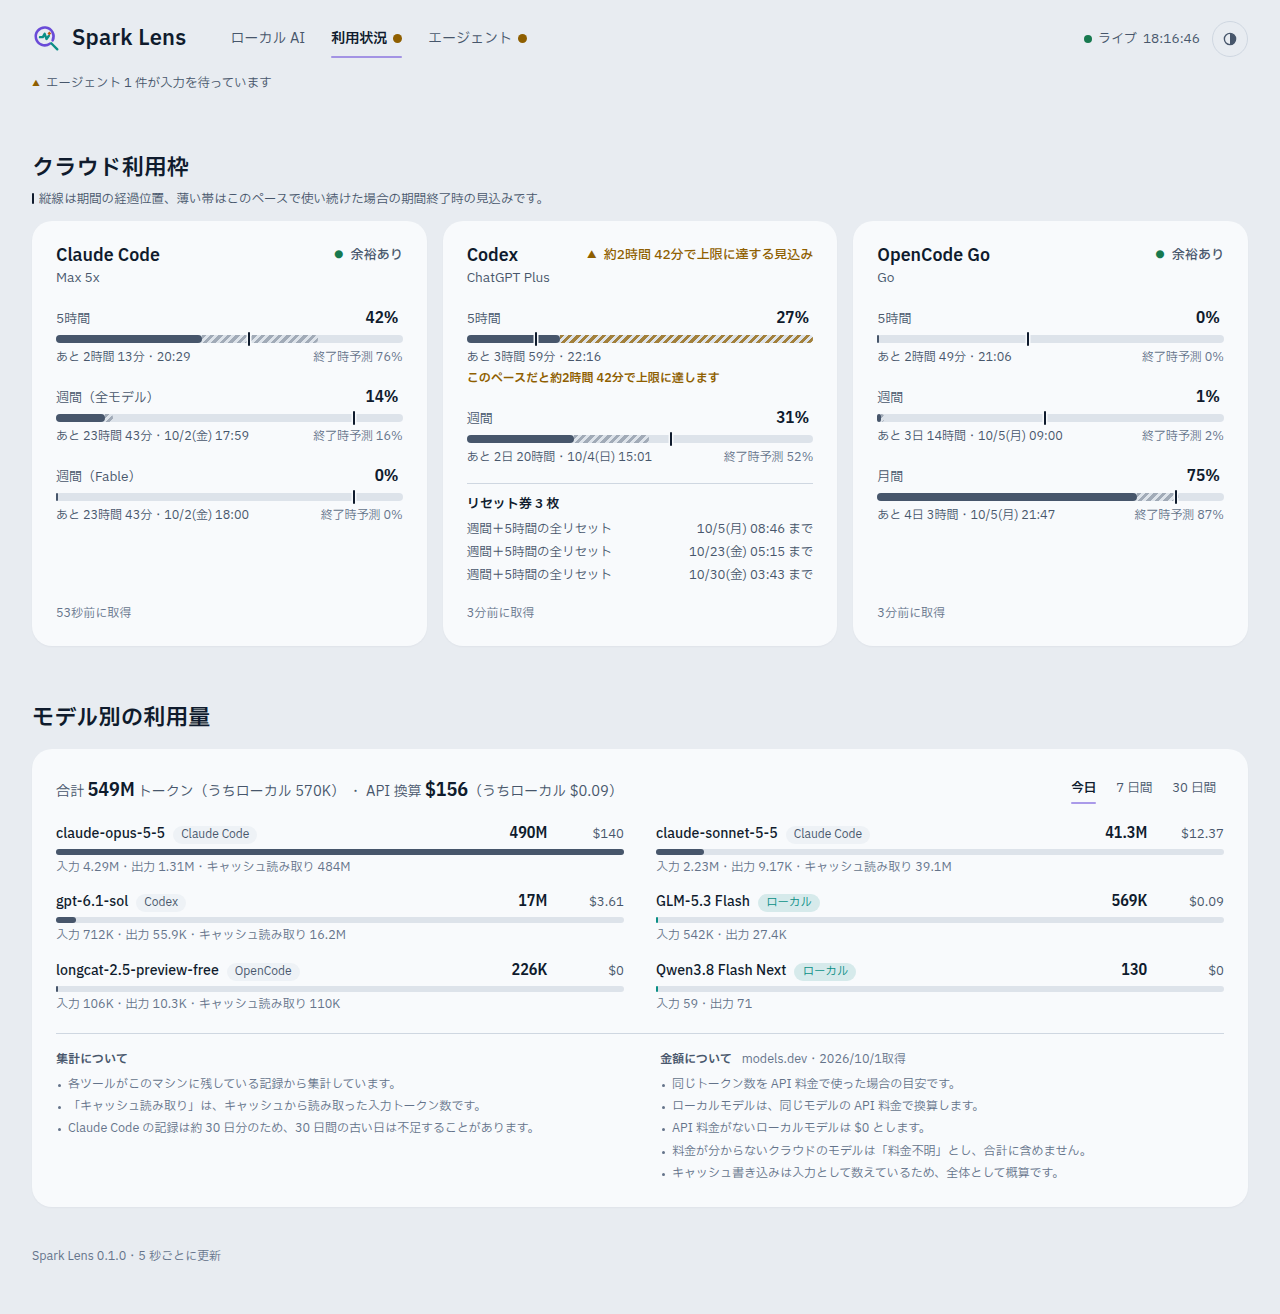
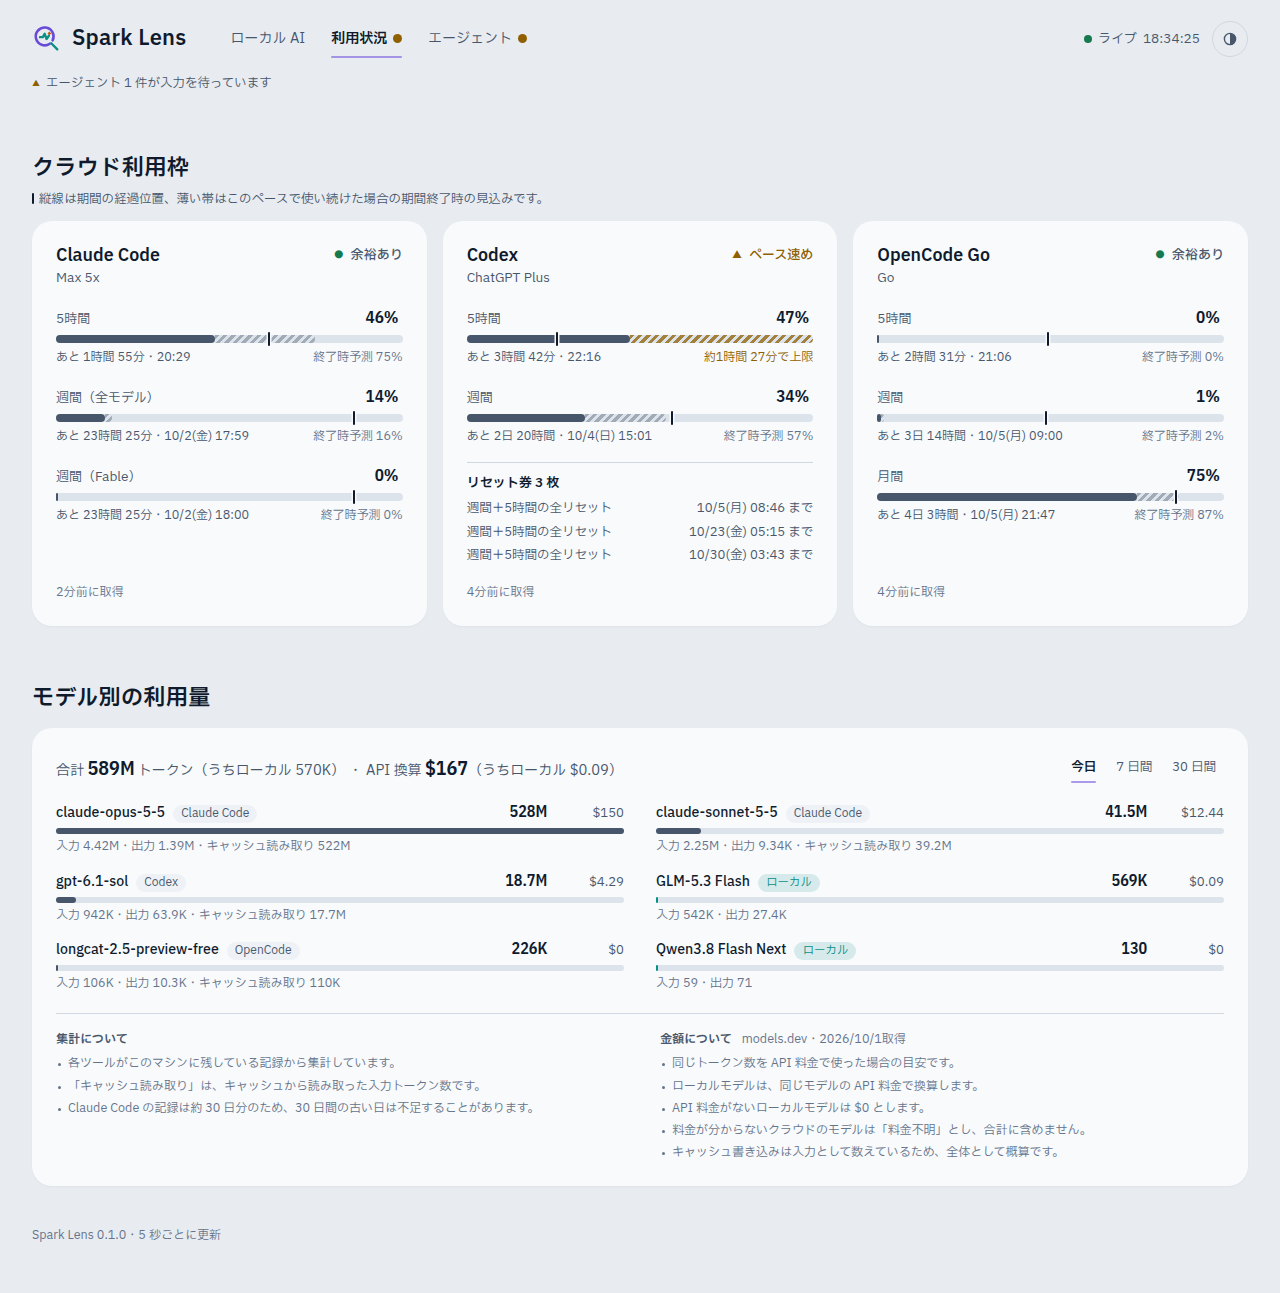
Two-node recipes shown on both machines; plain labels; containers as running or stopped; one pace note per card

diff --git a/web/src/components/LlmPanel.tsx b/web/src/components/LlmPanel.tsx
@@ -42,7 +42,7 @@ export function LlmPanel({
   const running = (llm.requestsRunning ?? 0) > 0;
   const kv = llm.kvCacheUsage === null ? null : llm.kvCacheUsage * 100;
   const spec = llm.spec;
-  const where = [...new Set(recipes.map((r) => r.hostLabel))].join("・");
+  const where = [...new Set(recipes.flatMap((r) => r.hostLabels ?? [r.hostLabel]))].join("・");
   const sub = [
     llm.models[0],
     llm.engine,
@@ -111,10 +111,23 @@ export function LlmPanel({
           </div>
 
           {(() => {
+            // A model split across machines holds its share on each; the start-up figures are per machine.
             const r = recipes.find((x) => x.memory);
-            const head = hosts.find((h) => h.id === (r?.host ?? llm.nodes[0]));
-            return head ? (
-              <MemoryMap host={head} weightsGiB={r?.memory?.weightsGiB ?? null} kvGiB={r?.memory?.kvGiB ?? null} kvUsage={llm.kvCacheUsage} />
+            const ids = llm.nodes.length > 0 ? llm.nodes : r ? [r.host] : [];
+            const machines = ids.map((id) => hosts.find((h) => h.id === id)).filter((h): h is HostSnapshot => Boolean(h));
+            return machines.length > 0 ? (
+              <div className="memstack">
+                {machines.map((h, i) => (
+                  <MemoryMap
+                    key={h.id}
+                    continued={i > 0}
+                    host={h}
+                    weightsGiB={r?.memory?.weightsGiB ?? null}
+                    kvGiB={r?.memory?.kvGiB ?? null}
+                    kvUsage={llm.kvCacheUsage}
+                  />
+                ))}
+              </div>
             ) : null;
           })()}
 
@@ -128,16 +141,16 @@ export function LlmPanel({
           />
 
           <dl className="factline">
-            {spec && <Fact label="ドラフト採用率" value={spec.acceptRate === null ? "–" : pct(spec.acceptRate * 100)} />}
-            {spec && <Fact label="検証あたり" value={spec.meanLength === null ? "–" : `${spec.meanLength.toFixed(1)} トークン`} />}
-            {spec && running && <Fact label="ドラフト / 採用" value={`${rate(spec.draftTokensPerSec)} / ${rate(spec.acceptedTokensPerSec)} トークン/秒`} />}
-            <Fact label="TTFT（平均）" value={llm.ttftSec === null ? "–" : `${llm.ttftSec.toFixed(2)} 秒`} />
+            {spec && <Fact label="先読みの的中率" value={spec.acceptRate === null ? "–" : pct(spec.acceptRate * 100)} />}
+            {spec && <Fact label="1回で進むトークン" value={spec.meanLength === null ? "–" : `${spec.meanLength.toFixed(1)} トークン`} />}
+            {spec && running && <Fact label="先読み / 的中" value={`${rate(spec.draftTokensPerSec)} / ${rate(spec.acceptedTokensPerSec)} トークン/秒`} />}
+            <Fact label="応答開始まで（平均）" value={llm.ttftSec === null ? "–" : `${llm.ttftSec.toFixed(2)} 秒`} />
             <Fact label="キャッシュヒット率" value={llm.prefixCacheHitRate === null ? "–" : pct(llm.prefixCacheHitRate * 100)} />
             <Fact
-              label="起動からの累計"
+              label="起動後の合計"
               value={llm.tokensTotal ? `入力 ${count(llm.tokensTotal.prompt)}・出力 ${count(llm.tokensTotal.generation)}` : "–"}
             />
-            <Fact label="連続稼働" value={llm.upSince ? duration((now - llm.upSince) / 1000) : "–"} />
+            <Fact label="稼働時間" value={llm.upSince ? duration((now - llm.upSince) / 1000) : "–"} />
             <Fact label="API の場所" value={`${shortHost(llm.baseUrl)}/v1`} />
           </dl>
 

diff --git a/web/src/pace.ts b/web/src/pace.ts
@@ -36,7 +36,7 @@ export function pace(w: UsageWindow, now: number): Pace | null {
 
 export function paceLabel(p: Pace): string {
   if (p.tone === "critical") return "上限に到達";
-  if (p.untilFullSec !== null) return `このペースだと約${duration(p.untilFullSec)}で上限に達します`;
+  if (p.untilFullSec !== null) return `約${duration(p.untilFullSec)}で上限`;
   return `終了時予測 ${Math.round(p.projected ?? 0)}%`;
 }
 
@@ -49,7 +49,10 @@ function untilReset(w: UsageWindow, now: number): string | undefined {
  * use. `reset` says when the window behind a warning resets; the card already
  * shows it under each bar, so only the alert strip adds it.
  */
-export function subscriptionStatus(sub: SubscriptionSnapshot, now: number): { tone: Tone; text: string; reset?: string } {
+export function subscriptionStatus(
+  sub: SubscriptionSnapshot,
+  now: number,
+): { tone: Tone; text: string; reset?: string; short?: string } {
   if (sub.status === "unconfigured") return { tone: "quiet", text: "未接続" };
   if (sub.status === "stale") return { tone: "warn", text: "要ログイン" };
   if (sub.status === "error" && sub.windows.length === 0) return { tone: "warn", text: "取得失敗" };
@@ -61,7 +64,14 @@ export function subscriptionStatus(sub: SubscriptionSnapshot, now: number): { to
     .map((w) => ({ w, p: pace(w, now) }))
     .filter((x): x is { w: UsageWindow; p: Pace } => x.p !== null && x.p.untilFullSec !== null)
     .sort((a, b) => a.p.untilFullSec! - b.p.untilFullSec!)[0];
-  if (fast) return { tone: "warn", text: `約${duration(fast.p.untilFullSec!)}で上限に達する見込み`, reset: untilReset(fast.w, now) };
+  if (fast)
+    return {
+      tone: "warn",
+      text: `約${duration(fast.p.untilFullSec!)}で上限に達する見込み`,
+      reset: untilReset(fast.w, now),
+      // On the card the window itself says when; the header only flags it.
+      short: "ペース速め",
+    };
   if (known.some((w) => w.usedPct! >= 80)) return { tone: "warn", text: "残りわずか" };
   return { tone: "good", text: "余裕あり" };
 }

diff --git a/web/src/components/BenchPanel.tsx b/web/src/components/BenchPanel.tsx
@@ -5,10 +5,10 @@ import { shortDate } from "../format.ts";
 type Key = BenchCase["key"];
 
 const COLUMNS: { key: Key; label: string; unit: string; pick: (c: BenchCase) => number | null; better: "low" | "high" }[] = [
-  { key: "ttft", label: "最初のトークン", unit: "秒", pick: (c) => (c.ttftMs === null ? null : c.ttftMs / 1000), better: "low" },
-  { key: "prose", label: "文章", unit: "トークン/秒", pick: (c) => c.decodeTps, better: "high" },
-  { key: "code", label: "コード", unit: "トークン/秒", pick: (c) => c.decodeTps, better: "high" },
-  { key: "prefill", label: "長い入力の読み込み", unit: "トークン/秒", pick: (c) => c.prefillTps, better: "high" },
+  { key: "ttft", label: "応答開始まで", unit: "秒", pick: (c) => (c.ttftMs === null ? null : c.ttftMs / 1000), better: "low" },
+  { key: "prose", label: "生成速度（文章）", unit: "トークン/秒", pick: (c) => c.decodeTps, better: "high" },
+  { key: "code", label: "生成速度（コード）", unit: "トークン/秒", pick: (c) => c.decodeTps, better: "high" },
+  { key: "prefill", label: "長文の読み込み", unit: "トークン/秒", pick: (c) => c.prefillTps, better: "high" },
 ];
 
 function value(run: BenchRun | undefined, key: Key): number | null {

diff --git a/server/bench.ts b/server/bench.ts
@@ -20,22 +20,22 @@ const FILLER = Array.from(
 ).join(" ");
 
 export const CASES: Case[] = [
-  { key: "ttft", label: "最初のトークンまで", prompt: "Reply with the single word OK.", maxTokens: 8 },
+  { key: "ttft", label: "応答開始まで", prompt: "Reply with the single word OK.", maxTokens: 8 },
   {
     key: "prose",
-    label: "文章",
+    label: "文章の生成",
     prompt: "日本の四季それぞれの特徴と楽しみ方を、具体例を交えて 600 字程度で説明してください。",
     maxTokens: 640,
   },
   {
     key: "code",
-    label: "コード",
+    label: "コードの生成",
     prompt: "Write a Python module implementing an LRU cache class with get/put, type hints, docstrings, and pytest tests.",
     maxTokens: 640,
   },
   {
     key: "prefill",
-    label: "長い入力の読み込み",
+    label: "長文の読み込み",
     prompt: `${FILLER}\n\nSummarise the text above in one sentence.`,
     maxTokens: 32,
   },

diff --git a/web/src/components/MemoryMap.tsx b/web/src/components/MemoryMap.tsx
@@ -19,7 +19,10 @@ export function MemoryMap({
   weightsGiB,
   kvGiB,
   kvUsage,
+  continued = false,
 }: {
+  /** A further machine of the same model: the heading is already above. */
+  continued?: boolean;
   host: HostSnapshot;
   weightsGiB: number | null;
   kvGiB: number | null;
@@ -48,7 +51,10 @@ export function MemoryMap({
   return (
     <figure className="memband">
       <figcaption className="memband__title">
-        メモリの内訳<span>{host.label}・{total.toFixed(0)} GiB・目盛りは 1 GiB</span>
+        {continued ? null : "メモリの内訳"}
+        <span className={continued ? "memband__more" : undefined}>
+          {host.label}・{total.toFixed(0)} GiB{continued ? "" : "・目盛りは 1 GiB"}
+        </span>
       </figcaption>
       <div
         className="memband__bar"

diff --git a/web/src/components/MachineCard.tsx b/web/src/components/MachineCard.tsx
@@ -185,7 +185,10 @@ export function MachineCard({ host, now }: { host: HostSnapshot; now: number }) 
             {containers.map((c) => (
               <li key={c.name} className={c.state === "running" ? "" : "spec--quiet"}>
                 <span>{c.name}</span>
-                <span>{dockerStatus(c.status)}</span>
+                {/* Running or not is what matters here; the details stay in the tooltip. */}
+                <span title={dockerStatus(c.status)}>
+                  {c.state === "running" ? (/unhealthy/i.test(c.status) ? "稼働中（異常）" : "稼働中") : "停止"}
+                </span>
               </li>
             ))}
           </ul>

diff --git a/web/src/components/RecipeList.tsx b/web/src/components/RecipeList.tsx
@@ -47,7 +47,7 @@ function Row({ recipe, now }: { recipe: RecipeSnapshot; now: number }) {
       <div className="rrow__main">
         <StatusPill tone={st.tone}>{st.text}</StatusPill>
         <span className="rrow__name">{recipe.label}</span>
-        <span className="rrow__meta">実行先 {recipe.hostLabel}</span>
+        <span className="rrow__meta">実行先 {(recipe.hostLabels ?? [recipe.hostLabel]).join("・")}</span>
         {recipe.upstream?.repo && recipe.upstream.repoUrl && (
           <a className="upstream__repo" href={recipe.upstream.repoUrl} target="_blank" rel="noopener noreferrer">
             {recipe.upstream.repo}

diff --git a/web/src/components/SubscriptionCard.tsx b/web/src/components/SubscriptionCard.tsx
@@ -47,7 +47,7 @@ export function SubscriptionCard({ sub, now }: { sub: SubscriptionSnapshot; now:
           <h3 className="card__title">{sub.label}</h3>
           <p className="card__sub">{sub.plan ?? "プラン不明"}</p>
         </div>
-        <StatusPill tone={st.tone}>{st.text}</StatusPill>
+        <StatusPill tone={st.tone}>{st.short ?? st.text}</StatusPill>
       </header>
 
       {sub.message && <p className={`notice ${sub.status === "unconfigured" ? "" : "notice--warn"}`}>{sub.message}</p>}

diff --git a/server/recipes.ts b/server/recipes.ts
@@ -195,6 +195,9 @@ export class RecipeManager {
         label: r.label,
         host: r.host,
         hostLabel: this.hosts.get(r.host)?.label ?? r.host,
+        hostLabels: [...new Set([r.host, ...((r.llm && this.llms.find((l) => l.id === r.llm)?.nodes) || [])])].map(
+          (h) => this.hosts.get(h)?.label ?? h,
+        ),
         llm: r.llm ?? null,
         status,
         canStart: !inFlight && status !== "running" && status !== "starting" && blocker === null && !this.unconfirmed(r),

diff --git a/web/src/styles.css b/web/src/styles.css
@@ -3714,3 +3714,19 @@ section {
   text-decoration-color: var(--line);
   text-underline-offset: 3px;
 }
+
+/* The pace note sits where the projection goes, in the same quiet size. */
+.pace--warn {
+  color: var(--warn-text, var(--warn));
+  font-weight: 400;
+}
+
+.memstack {
+  display: flex;
+  flex-direction: column;
+  gap: 14px;
+}
+
+.memband__title .memband__more {
+  margin-left: 0;
+}

diff --git a/server/types.ts b/server/types.ts
@@ -378,6 +378,8 @@ export interface RecipeSnapshot {
   label: string;
   host: string;
   hostLabel: string;
+  /** Every machine the recipe's model runs on (both Sparks for a two-node recipe), launch host first. */
+  hostLabels: string[];
   llm: string | null;
   status: "running" | "starting" | "stopping" | "updating" | "stopped" | "failed";
   canStart: boolean;
